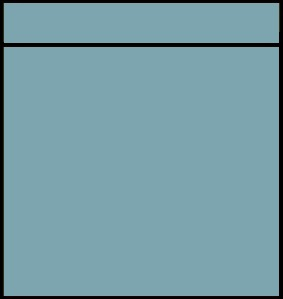
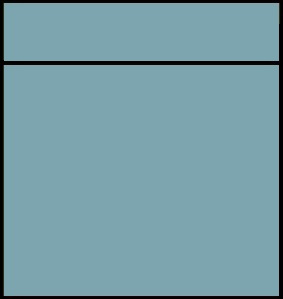
InterfaceVaisseauv1

Changed region(s): [[0.0, 0.1204, 0.9894, 0.2408]]

diff --git a/core/src/gameObjets/Vaisseau.java b/core/src/gameObjets/Vaisseau.java
@@ -12,12 +12,13 @@ import commerce.MarketPlace;
 import commerce.Trade;
 import gameConcepts.Inventory;
 import gameConcepts.SuperActor;
+import gameUi.InterfaceVaisseau;
 
 import static gameUi.WorldInputProcessor.palierZoom;
 import static gameUi.WorldInputProcessor.worldZoom;
 
 public class Vaisseau extends SuperActor implements HasInventory {
-
+	private InterfaceVaisseau interfaceVaisseau;
 	private float accelmax;
 	float scaleSpriteClose = 1f;
 	private Inventory cargo;
@@ -28,6 +29,7 @@ public class Vaisseau extends SuperActor implements HasInventory {
 	private float tempsVoyageRestant;
 	private float tempsVoyageTotal;
 	private Vector2 destination;
+	private Vector2 vitesse;
 	private Vector2 depart;
 	private int id;
 	static private float scaling=0.025f;
@@ -44,6 +46,7 @@ public class Vaisseau extends SuperActor implements HasInventory {
 		this.depart = new Vector2(x,y);
 		this.position = new Vector2(x,y);
 		this.destination = new Vector2(x,y);
+		this.vitesse =new Vector2(x,y);
 		this.listeTrade= new Array<>();
 
 		this.id= World.nbVaisseauCree;
@@ -60,6 +63,18 @@ public class Vaisseau extends SuperActor implements HasInventory {
 		this.tempsVoyageRestant=tempsVoyageTotal;
 		this.depart.set(position);
 		this.destination.set(x,y);
+	}
+
+	public void setInterfaceVaisseau(InterfaceVaisseau interfaceVaisseau){
+		this.interfaceVaisseau=interfaceVaisseau;
+		if (!this.listeTrade.isEmpty()){
+			if (this.listeTrade.get(0).getAcheteur().getImplatation().getPosition().epsilonEquals(this.destination)){
+				this.interfaceVaisseau.setDestination(this.listeTrade.get(0).getAcheteur().getImplatation());
+			}
+			else{
+				this.interfaceVaisseau.setDestination(this.listeTrade.get(0).getVendeur().getImplatation());
+			}
+		}
 	}
 
 	private void setDestination(Vector2 destination) {
@@ -91,6 +106,9 @@ public class Vaisseau extends SuperActor implements HasInventory {
 		this.listeTrade=i.getBestMegaTrade().getBestTrade(this.getInventory().getSizeAvailable());
 		if (this.listeTrade.notEmpty()) {
 			MarketPlace.removeVaisseauDisponible(this);
+			if (this.interfaceVaisseau!=null){
+				this.interfaceVaisseau.setDestination(this.listeTrade.get(0).getVendeur().getImplatation());
+			}
 			this.setDestination(this.listeTrade.get(0).getVendeur().getX(),this.listeTrade.get(0).getVendeur().getY());
 			return true;
 		}
@@ -143,10 +161,19 @@ public class Vaisseau extends SuperActor implements HasInventory {
 		if (this.listeTrade.notEmpty()) {
 			if (this.listeTrade.get(0).getVendeur().getImplatation().getPosition().epsilonEquals(destination)) {
 				this.AllTradesToCargo(true);
+				if (this.interfaceVaisseau!=null){
+					this.interfaceVaisseau.refreshInventory();
+				}
+				if (this.interfaceVaisseau!=null){
+					this.interfaceVaisseau.setDestination(this.listeTrade.get(0).getAcheteur().getImplatation());
+				}
 				this.setDestination(this.listeTrade.get(0).getAcheteur().getImplatation().getPosition());
 			}
 			else if (this.listeTrade.get(0).getAcheteur().getImplatation().getPosition().epsilonEquals(destination)){
 				this.AllTradesToCargo(false);
+				if (this.interfaceVaisseau!=null){
+					this.interfaceVaisseau.refreshInventory();
+				}
 				MarketPlace.addVaisseauDisponible(this);
 			}
 		}
@@ -156,7 +183,13 @@ public class Vaisseau extends SuperActor implements HasInventory {
 	public void act(float delta) {
 		this.tempsVoyageRestant-=delta;
 		float progress = this.tempsVoyageRestant < 0 ? 1 : 1f - tempsVoyageRestant /this.tempsVoyageTotal;
+		this.vitesse.set(position);
 		this.position.set(Interpolation.pow2.apply(this.depart.x,this.destination.x,progress),Interpolation.pow2.apply(this.depart.y,this.destination.y,progress));
+		this.vitesse.add(-this.position.x,-this.position.y);
+		this.vitesse.scl(delta);
+		if (this.interfaceVaisseau!=null){
+			this.interfaceVaisseau.setVitesse(this.vitesse.len());
+		}
 		if (progress==1){
 			this.isArrived();
 		}
@@ -207,10 +240,6 @@ public class Vaisseau extends SuperActor implements HasInventory {
 		else {
 			return ((Vaisseau) o).getId() == this.id;
 		}
-	}
-	
-	private double getDistance(Vector2 vect) {
-		return Math.sqrt(Math.pow(this.getX()-vect.x, 2)+Math.pow(this.getY()-vect.y, 2));
 	}
 
 	@Override

diff --git a/core/src/gameUi/InterfaceVaisseau.java b/core/src/gameUi/InterfaceVaisseau.java
@@ -1,9 +1,81 @@
 package gameUi;
 
+import com.badlogic.gdx.scenes.scene2d.Actor;
+import com.badlogic.gdx.scenes.scene2d.ui.Label;
+import com.badlogic.gdx.scenes.scene2d.ui.List;
 import com.badlogic.gdx.scenes.scene2d.ui.Skin;
+import com.badlogic.gdx.scenes.scene2d.ui.Table;
+import com.badlogic.gdx.utils.Align;
+import com.badlogic.gdx.utils.Array;
+import gameConcepts.Ressource;
+import gameObjets.Implantation;
+import gameObjets.Vaisseau;
 
 public class InterfaceVaisseau extends Interface{
-    public InterfaceVaisseau(Skin skin, float width, float height, float x, float y) {
-        super(skin, width, height, x, y, "InterfaceVaisseau");
+    private Vaisseau vaisseau;
+    private Skin skin;
+    private Table ressourceInventory;
+    private Label labelVitesse;
+    private Implantation destination;
+    private List listInventory;
+    public InterfaceVaisseau(Vaisseau v,Skin skin, float width, float height) {
+        super(skin, width*0.2f, height*0.4f, width*0.7f, height*0.2f, "InterfaceVaisseau");
+        this.vaisseau=v;
+        this.skin=skin;
+        this.vaisseau.setInterfaceVaisseau(this);
+        this.labelVitesse=new Label("0.0",skin);
+        this.table.add(new Label("Vitesse : ",skin)).fillX().center().expandX();
+        this.table.add(this.labelVitesse).fillX().center().expandX();
+        this.createInventory();
+    }
+    public void setVitesse(float vitesse){
+        this.labelVitesse.setText(Float.toString(vitesse));
+    }
+    public void setDestination(Implantation destination){
+        this.destination=destination;
+    }
+    private void createInventory() {
+        this.table.row();
+        this.table.add(new Label("Inventaire :", skin));
+        table.row();
+        listInventory = new List(skin);
+        this.ressourceInventory = new Table();
+        Array<Actor> labelRessource = new Array<Actor>();
+        for (int i = 0; i < Ressource.diverse; i++) {
+            if (this.vaisseau.getInventory().getRessource(i) > 0) {
+                labelRessource.add(new Label(Ressource.getName(i), skin) {
+                    @Override
+                    public String toString() {
+                        return String.valueOf(this.getText());
+                    }
+                });
+                ressourceInventory.add(new Label(Float.toString(this.vaisseau.getInventory().getRessource(i)), skin));
+                ressourceInventory.row();
+            }
+        }
+        listInventory.setItems(labelRessource);
+        Table listeInventaire = new Table();
+        listeInventaire.setWidth(table.getWidth());
+        listeInventaire.add(listInventory).left().expandX().fillX();
+        listeInventaire.add(ressourceInventory).right();
+        this.table.add(listeInventaire).expandX().fillX();
+    }
+    public void refreshInventory() {
+        Array<Actor> labelRessource = new Array<>();
+        this.ressourceInventory.clearChildren();
+        for (int i = 0; i < Ressource.diverse; i++) {
+            if (this.vaisseau.getInventory().getRessource(i) > 0) {
+                System.out.println(this.vaisseau.getInventory().getRessource(i));
+                labelRessource.add(new Label(Ressource.getName(i), skin) {
+                    @Override
+                    public String toString() {
+                        return String.valueOf(this.getText());
+                    }
+                });
+                ressourceInventory.add(new Label(Float.toString(this.vaisseau.getInventory().getRessource(i)), skin));
+                ressourceInventory.row();
+            }
+        }
+        listInventory.setItems(labelRessource);
     }
 }

diff --git a/core/src/gameUi/InterfaceIndustrie.java b/core/src/gameUi/InterfaceIndustrie.java
@@ -15,7 +15,6 @@ public class InterfaceIndustrie extends Interface {
     private Industrie industrie;
     private Skin skin;
     private Table ressourceInventory;
-    private boolean clear = false;
     private List listInventory;
 
     public InterfaceIndustrie(Industrie i, Skin skin, float width, float height) {
@@ -79,13 +78,8 @@ public class InterfaceIndustrie extends Interface {
 
     }
 
-
-    public boolean getCleared() {
-        return this.clear;
-    }
-
     public void refreshInventory() {
-        Array<Actor> labelRessource = new Array<Actor>();
+        Array<Actor> labelRessource = new Array<>();
         this.ressourceInventory.clearChildren();
         for (int i = 0; i < Ressource.diverse; i++) {
             if (this.industrie.getInventory().getRessource(i) > 0) {

diff --git a/core/src/gameUi/WorldInputProcessor.java b/core/src/gameUi/WorldInputProcessor.java
@@ -19,6 +19,7 @@ import com.world.World;
 import gameConcepts.SuperActor;
 import gameObjets.Planete;
 import gameObjets.Soleil;
+import gameObjets.Vaisseau;
 
 public class WorldInputProcessor implements InputProcessor{
 	public static float worldZoom;
@@ -331,6 +332,9 @@ public class WorldInputProcessor implements InputProcessor{
 						}
 						if (hit2 instanceof Planete) {
 							this.addInterface(new InterfacePlanete((Planete)hit2, skin, this.viewport.getScreenWidth(), this.viewport.getScreenHeight()));
+						}
+						if (hit2 instanceof Vaisseau){
+							this.addInterface(new InterfaceVaisseau((Vaisseau)hit2,skin,this.viewport.getScreenWidth(), this.viewport.getScreenHeight()));
 						}
 					}
 					else{

diff --git a/core/src/gameUi/Interface.java b/core/src/gameUi/Interface.java
@@ -49,6 +49,9 @@ public class Interface extends Group implements Comparable<Actor> {
 			case("InterfaceIndustrie"):
 				im = new Image(new Texture(Gdx.files.internal("InterfaceIndustrie.jpg")));
 				break;
+			case("InterfaceVaisseau"):
+				im = new Image(new Texture(Gdx.files.internal("InterfaceVaisseau.jpg")));
+				break;
 		}
 		im.setHeight(height);
 		im.setWidth(widht);
